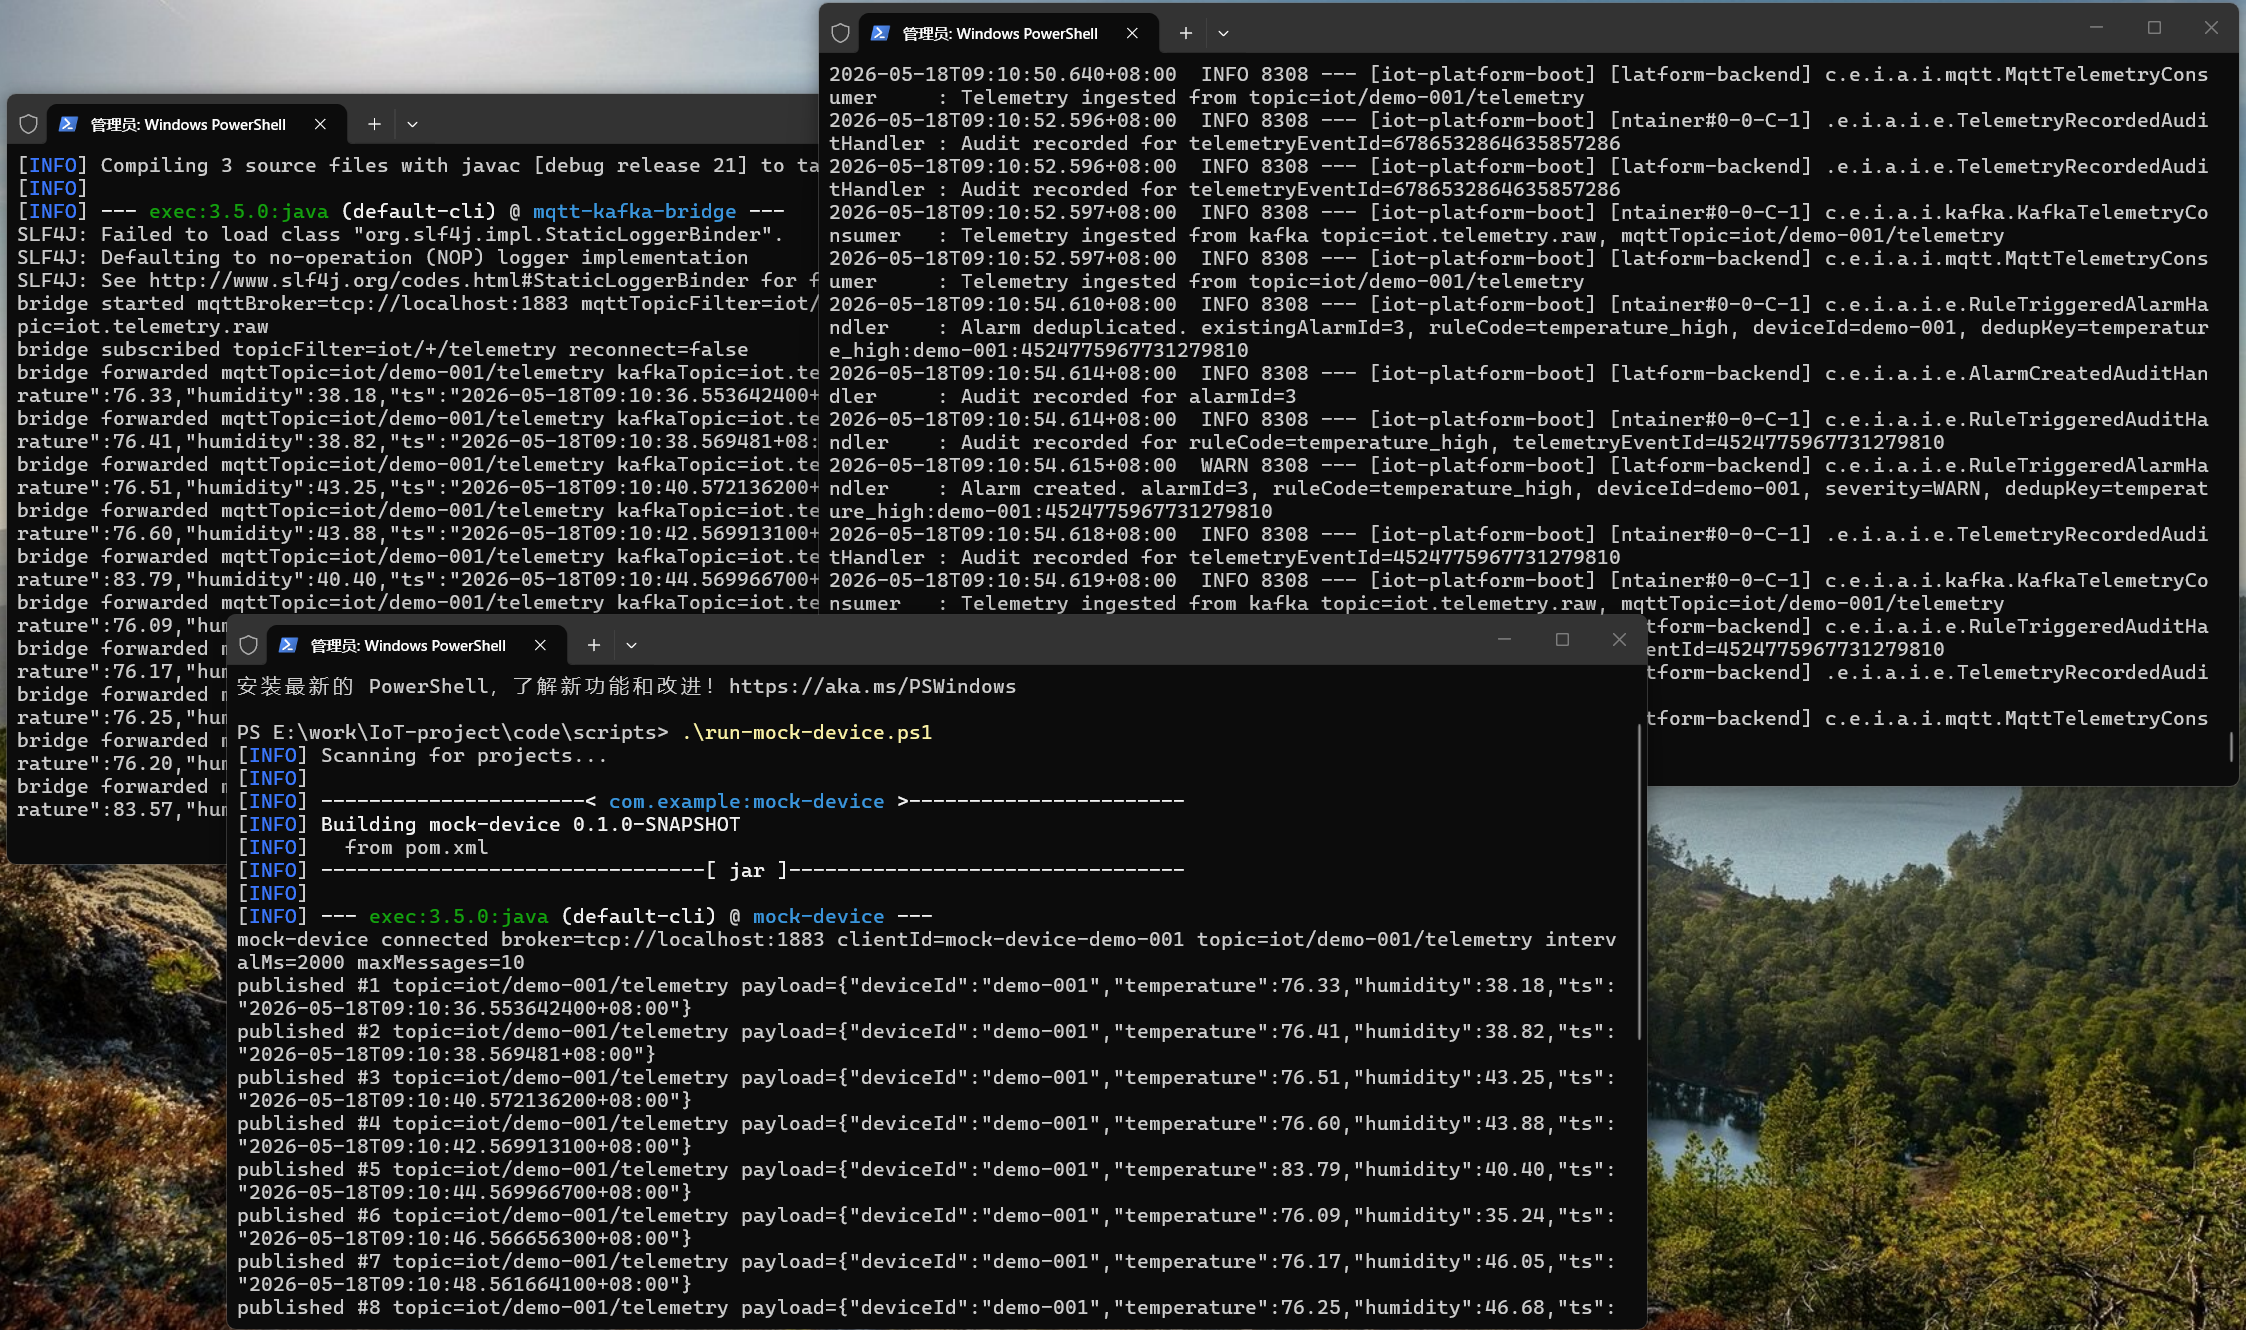
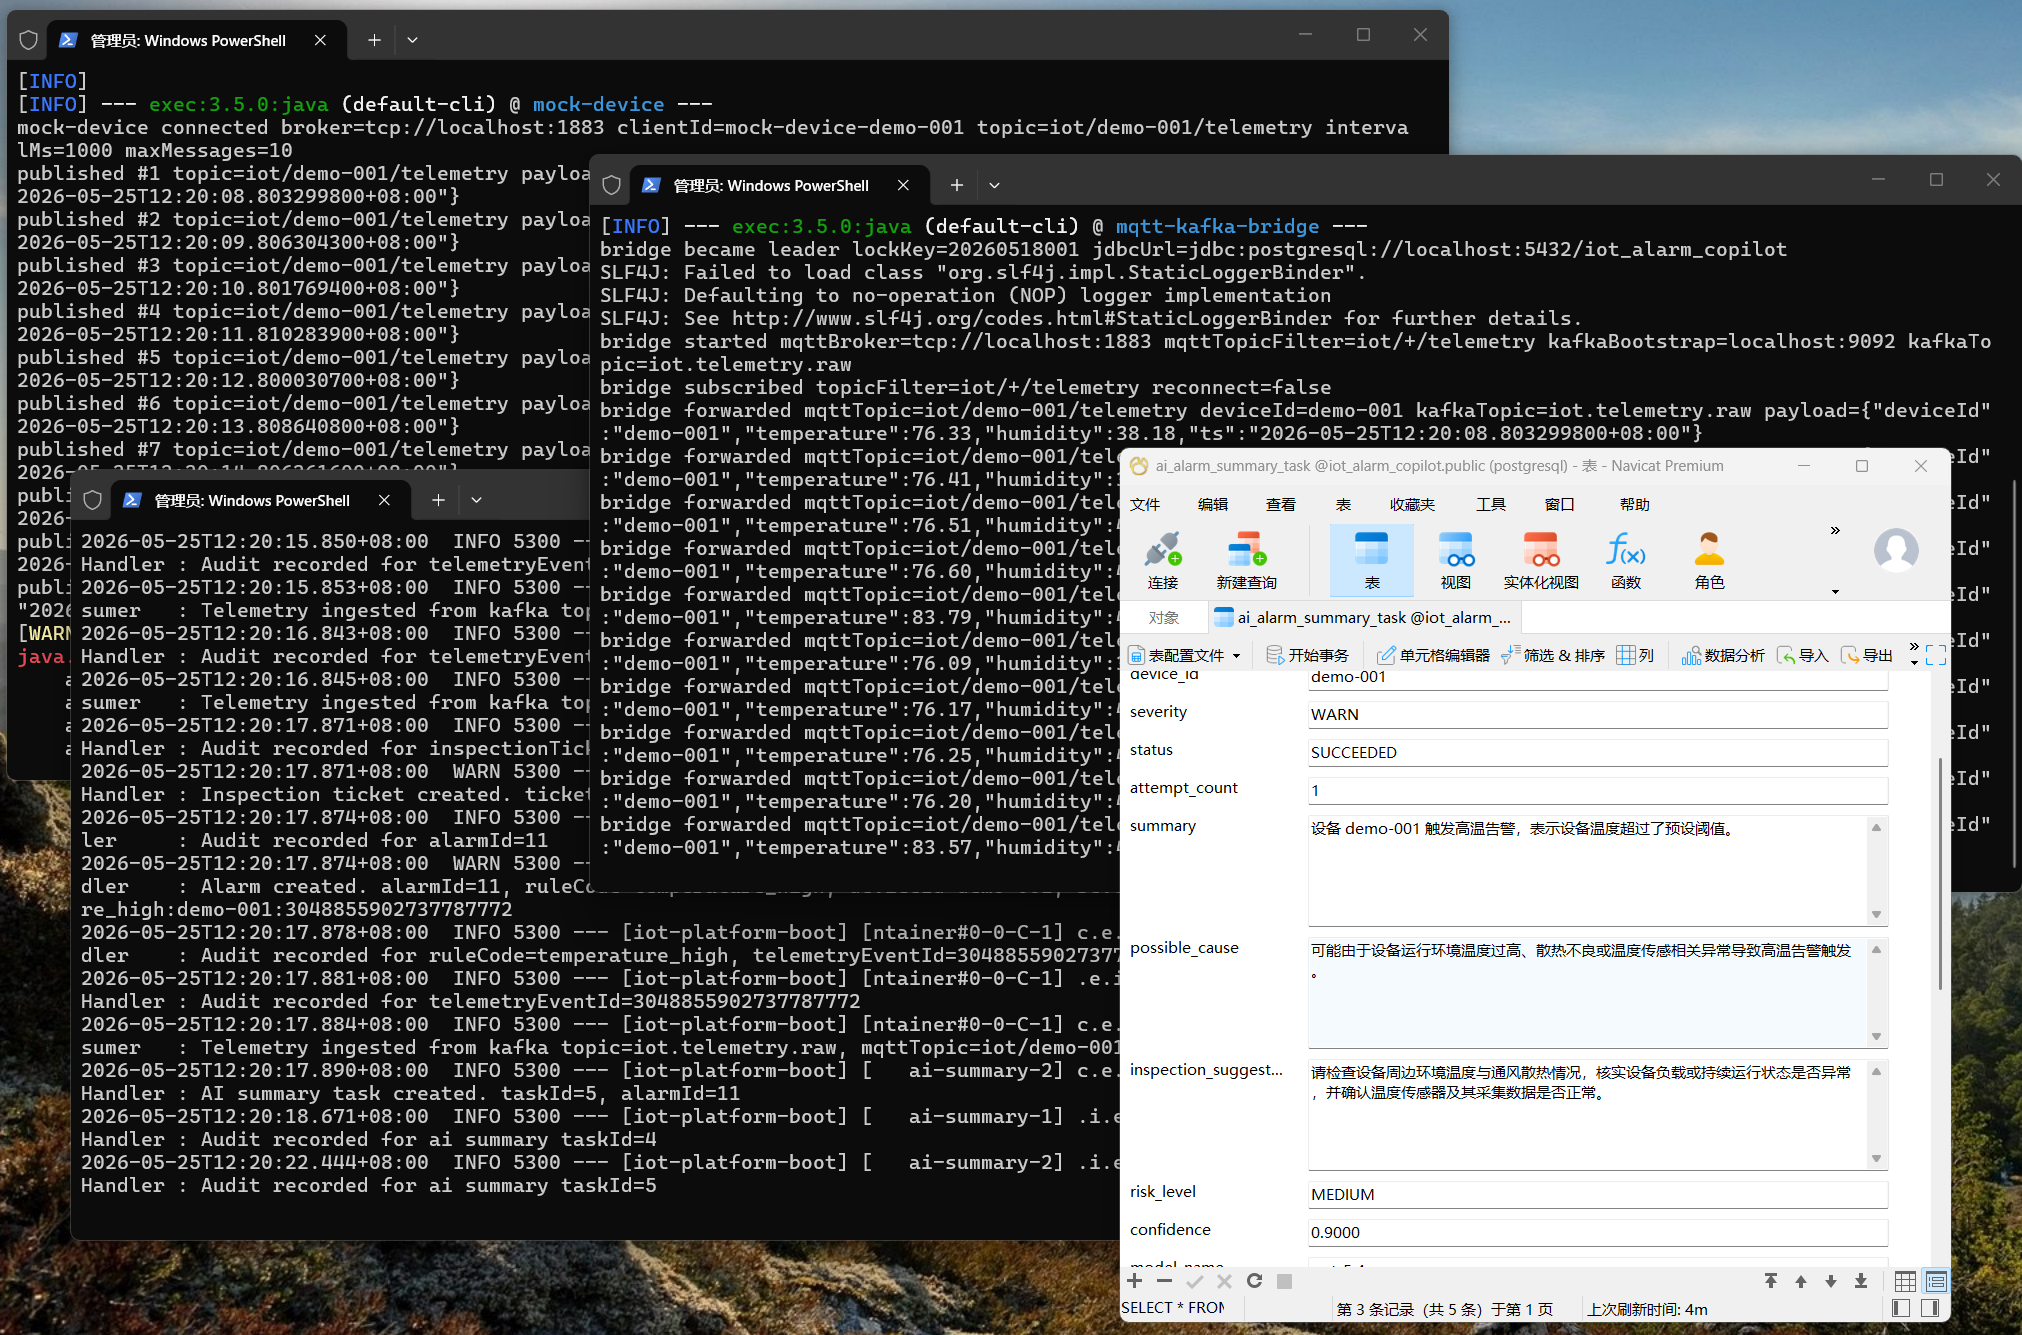
修改script

diff --git a/mqtt-kafka-bridge/README.md b/mqtt-kafka-bridge/README.md
@@ -1,0 +1,157 @@
+# mqtt-kafka-bridge
+
+## Quick Start
+
+1.  Build fat jar:
+    
+
+```powershell
+mvn -DskipTests package
+```
+
+2.  Start one instance:
+    
+
+```powershell
+.\start-bridge.ps1 -NodeId node1
+```
+
+3.  Start standby instance:
+    
+
+```powershell
+.\start-bridge.ps1 -NodeId node2
+```
+
+这是一个很薄的 `MQTT -> Kafka` 桥接程序，用来在 `Mosquitto` 不直接提供 Kafka 上游能力时，把设备上行遥测转发到 Kafka。
+
+* * *
+
+## 1\. 当前链路
+
+当前上行主链：
+
+```text
+Device / MQTTX
+  -> Mosquitto (broker)
+  -> mqtt-kafka-bridge
+  -> Kafka topic: iot.telemetry.raw
+  -> backend(access -> telemetry -> rule -> alarm ...)
+```
+
+## 2\. MQTT topic 约定
+
+当前 bridge 假设设备上行 topic 结构为：
+
+```text
+iot/{deviceId}/telemetry
+```
+
+例如：
+
+```text
+iot/dev-01/telemetry
+iot/boiler-sensor-02/telemetry
+```
+
+bridge 会从 topic 中提取出：
+
+-   `deviceId （做为message key）`
+    
+
+并把原始 MQTT topic 和 payload 一起封装进 Kafka value。
+
+当前封装对象为：
+
+-   `KafkaTelemetryEnvelope`
+    
+
+其结构是：
+
+```json
+{
+  "topic": "iot/dev-01/telemetry",
+  "payload": "{\"temperature\":36.5,\"humidity\":55}"
+}
+```
+
+## 3\. 配置项
+
+当前配置来自：
+
+-   JVM System Property
+    
+-   或环境变量
+    
+
+主要配置项：
+
+-   `bridge.mqttBrokerUrl` / `BRIDGE_MQTT_BROKER_URL`
+    
+-   `bridge.mqttClientId` / `BRIDGE_MQTT_CLIENT_ID`
+    
+-   `bridge.mqttTopicFilter` / `BRIDGE_MQTT_TOPIC_FILTER`
+    
+-   `bridge.mqttQos` / `BRIDGE_MQTT_QOS`
+    
+-   `bridge.kafkaBootstrapServers` / `BRIDGE_KAFKA_BOOTSTRAP_SERVERS`
+    
+-   `bridge.kafkaTopic` / `BRIDGE_KAFKA_TOPIC`
+    
+-   `bridge.leaderElectionEnabled` / `BRIDGE_LEADER_ELECTION_ENABLED`
+    
+-   `bridge.leaderJdbcUrl` / `BRIDGE_LEADER_JDBC_URL`
+    
+-   `bridge.leaderJdbcUsername` / `BRIDGE_LEADER_JDBC_USERNAME`
+    
+-   `bridge.leaderJdbcPassword` / `BRIDGE_LEADER_JDBC_PASSWORD`
+    
+-   `bridge.leaderLockKey` / `BRIDGE_LEADER_LOCK_KEY`
+    
+-   `bridge.leaderRetryIntervalMs` / `BRIDGE_LEADER_RETRY_INTERVAL_MS`
+    
+-   `bridge.leaderHealthCheckIntervalMs` / `BRIDGE_LEADER_HEALTH_CHECK_INTERVAL_MS`
+    
+
+默认值：
+
+-   MQTT Broker：`tcp://localhost:1883`
+    
+-   MQTT clientId：`mqtt-kafka-bridge`
+    
+-   MQTT topic filter：`iot/+/telemetry`
+    
+-   Kafka bootstrap：`localhost:9092`
+    
+-   Kafka topic：`iot.telemetry.raw`
+    
+-   Leader election：`true`
+    
+-   Leader JDBC：`jdbc:postgresql://localhost:5432/iot_alarm_copilot`
+    
+-   Leader lock key：`20260518001`
+    
+
+* * *
+
+## 4\. 多节点部署方式（主要为了演示）
+
+当前实现采用的是：
+
+`多实例部署 + PostgreSQL advisory lock 单活抢占`
+
+## 5\. 生产建议
+
+**直接使用EMQX**。
+
+如果要把这个 bridge 用在更接近生产的环境，至少要注意下面几点：
+
+1.  Kafka topic 要配置足够的 partition 数，否则 backend 多 node 也无法真正并行。
+    
+2.  设备 topic 规则要保持稳定，确保 `deviceId` 可被准确提取。
+    
+3.  不要随意把 Kafka key 改成随机值、时间戳或完整 payload。
+    
+4.  如果后面换成 EMQX 等本身支持 Kafka 集成的 Broker，可以用 Broker 原生能力替换这个 bridge，但仍要保留“按设备 key 分区”原则。
+    
+5.  如果启用多实例 bridge，务必给每个实例不同的 `mqttClientId`，即使当前是单活模式，也不要复用同一个固定 clientId。

diff --git a/RUN-LOCAL.md b/RUN-LOCAL.md
@@ -1,10 +1,10 @@
 # 本地运行最小闭环
 
-当前统一只保留一条本地运行主链：
+本地运行主链：
 
 `Mock Device -> Mosquitto -> MQTT Kafka Bridge -> Kafka -> Backend -> Telemetry -> PostgreSQL / TimescaleDB`
 
-## 1. 启动基础依赖
+## 1\. 启动基础依赖
 
 在项目根目录执行：
 
@@ -14,16 +14,21 @@ powershell -ExecutionPolicy Bypass -File .\scripts\start-local-mosquitto.ps1 -Ac
 
 默认会启动：
 
-- `Mosquitto: 1883`
-- `Kafka: 9092`
-- `PostgreSQL / TimescaleDB: 5432`
+-   `Mosquitto: 1883`
+    
+-   `Kafka: 9092`
+    
+-   `PostgreSQL / TimescaleDB: 5432`
+    
 
 脚本会自动确保两个数据库存在：
 
-- `iot_alarm_copilot`
-- `iot_telemetry_hot`
+-   `iot_alarm_copilot`
+    
+-   `iot_telemetry_hot`
+    
 
-## 2. 启动 Backend
+## 2\. 启动 Backend
 
 在项目根目录执行：
 
@@ -33,9 +38,10 @@ powershell -ExecutionPolicy Bypass -File .\scripts\run-backend-local.ps1
 
 默认 HTTP 端口：
 
-- `8080`
+-   `8080`
+    
 
-## 3. 启动 MQTT Kafka Bridge
+## 3\. 启动 MQTT Kafka Bridge
 
 在项目根目录执行：
 
@@ -45,12 +51,16 @@ powershell -ExecutionPolicy Bypass -File .\scripts\run-mqtt-kafka-bridge.ps1
 
 默认配置：
 
-- `mqttBrokerUrl=tcp://localhost:1883`
-- `mqttTopicFilter=iot/+/telemetry`
-- `kafkaBootstrapServers=localhost:9092`
-- `kafkaTopic=iot.telemetry.raw`
+-   `mqttBrokerUrl=tcp://localhost:1883`
+    
+-   `mqttTopicFilter=iot/+/telemetry`
+    
+-   `kafkaBootstrapServers=localhost:9092`
+    
+-   `kafkaTopic=iot.telemetry.raw`
+    
 
-## 4. 启动 Mock Device
+## 4\. 启动 Mock Device
 
 在项目根目录执行：
 
@@ -58,7 +68,7 @@ powershell -ExecutionPolicy Bypass -File .\scripts\run-mqtt-kafka-bridge.ps1
 powershell -ExecutionPolicy Bypass -File .\scripts\run-mock-device.ps1 -BrokerUrl tcp://localhost:1883 -DeviceId demo-001 -IntervalMs 1000 -MaxMessages 10
 ```
 
-## 5. 验证结果
+## 5\. 验证结果
 
 执行：
 
@@ -74,7 +84,7 @@ http://localhost:8080/api/alarms/recent?limit=20
 http://localhost:8080/api/audit-logs/recent?limit=20
 ```
 
-## 6. 关闭环境
+## 6\. 关闭环境
 
 ```powershell
 powershell -ExecutionPolicy Bypass -File .\scripts\start-local-mosquitto.ps1 -Action down

diff --git a/README.md b/README.md
@@ -10,7 +10,7 @@
     
 -   `DDD 上下文边界`
     
--   `Spring Cloud Alibaba Ready`
+-   `Spring Cloud Alibaba （准备，后面可以按context模块直接拆分为微服务）`
     
 
 ## 当前骨架
@@ -19,23 +19,18 @@
 .
 ├─ backend/                  # Java 后端多模块骨架
 ├─ docker/                   # 依赖镜像
-├─ docs/                     # 设计文档与架构图
 ├─ mock-device/              # Java Mock Device 骨架
+├─ mqtt-kafka-bridge/        # 将本地mosquitto的MQTT消息转发到kafka中，backend就可以直接消费kafka
 ├─ scripts/                  # 启动与初始化脚本
 └─ README.md
 ```
 
 ## 当前状态
 
-![本地运行](./mockdevice_mqttbridge_backend.png)
+![本地运行](file:///E:/work/IoT-project/code/mockdevice_mqttbridge_backend.png)
 
-当前完成：
+当前已完成：
 
 -   跑通了 mock device --> broker --> (mqtt\_kafka\_bridge) --> kafka --> backend --> postgresql (RDBMS and TSDB)
     
 -   启动参考 [RUN-LOCAL](RUN-LOCAL.md)
-    
-
-下一步继续做：
-
-1.  接 AI 摘要
